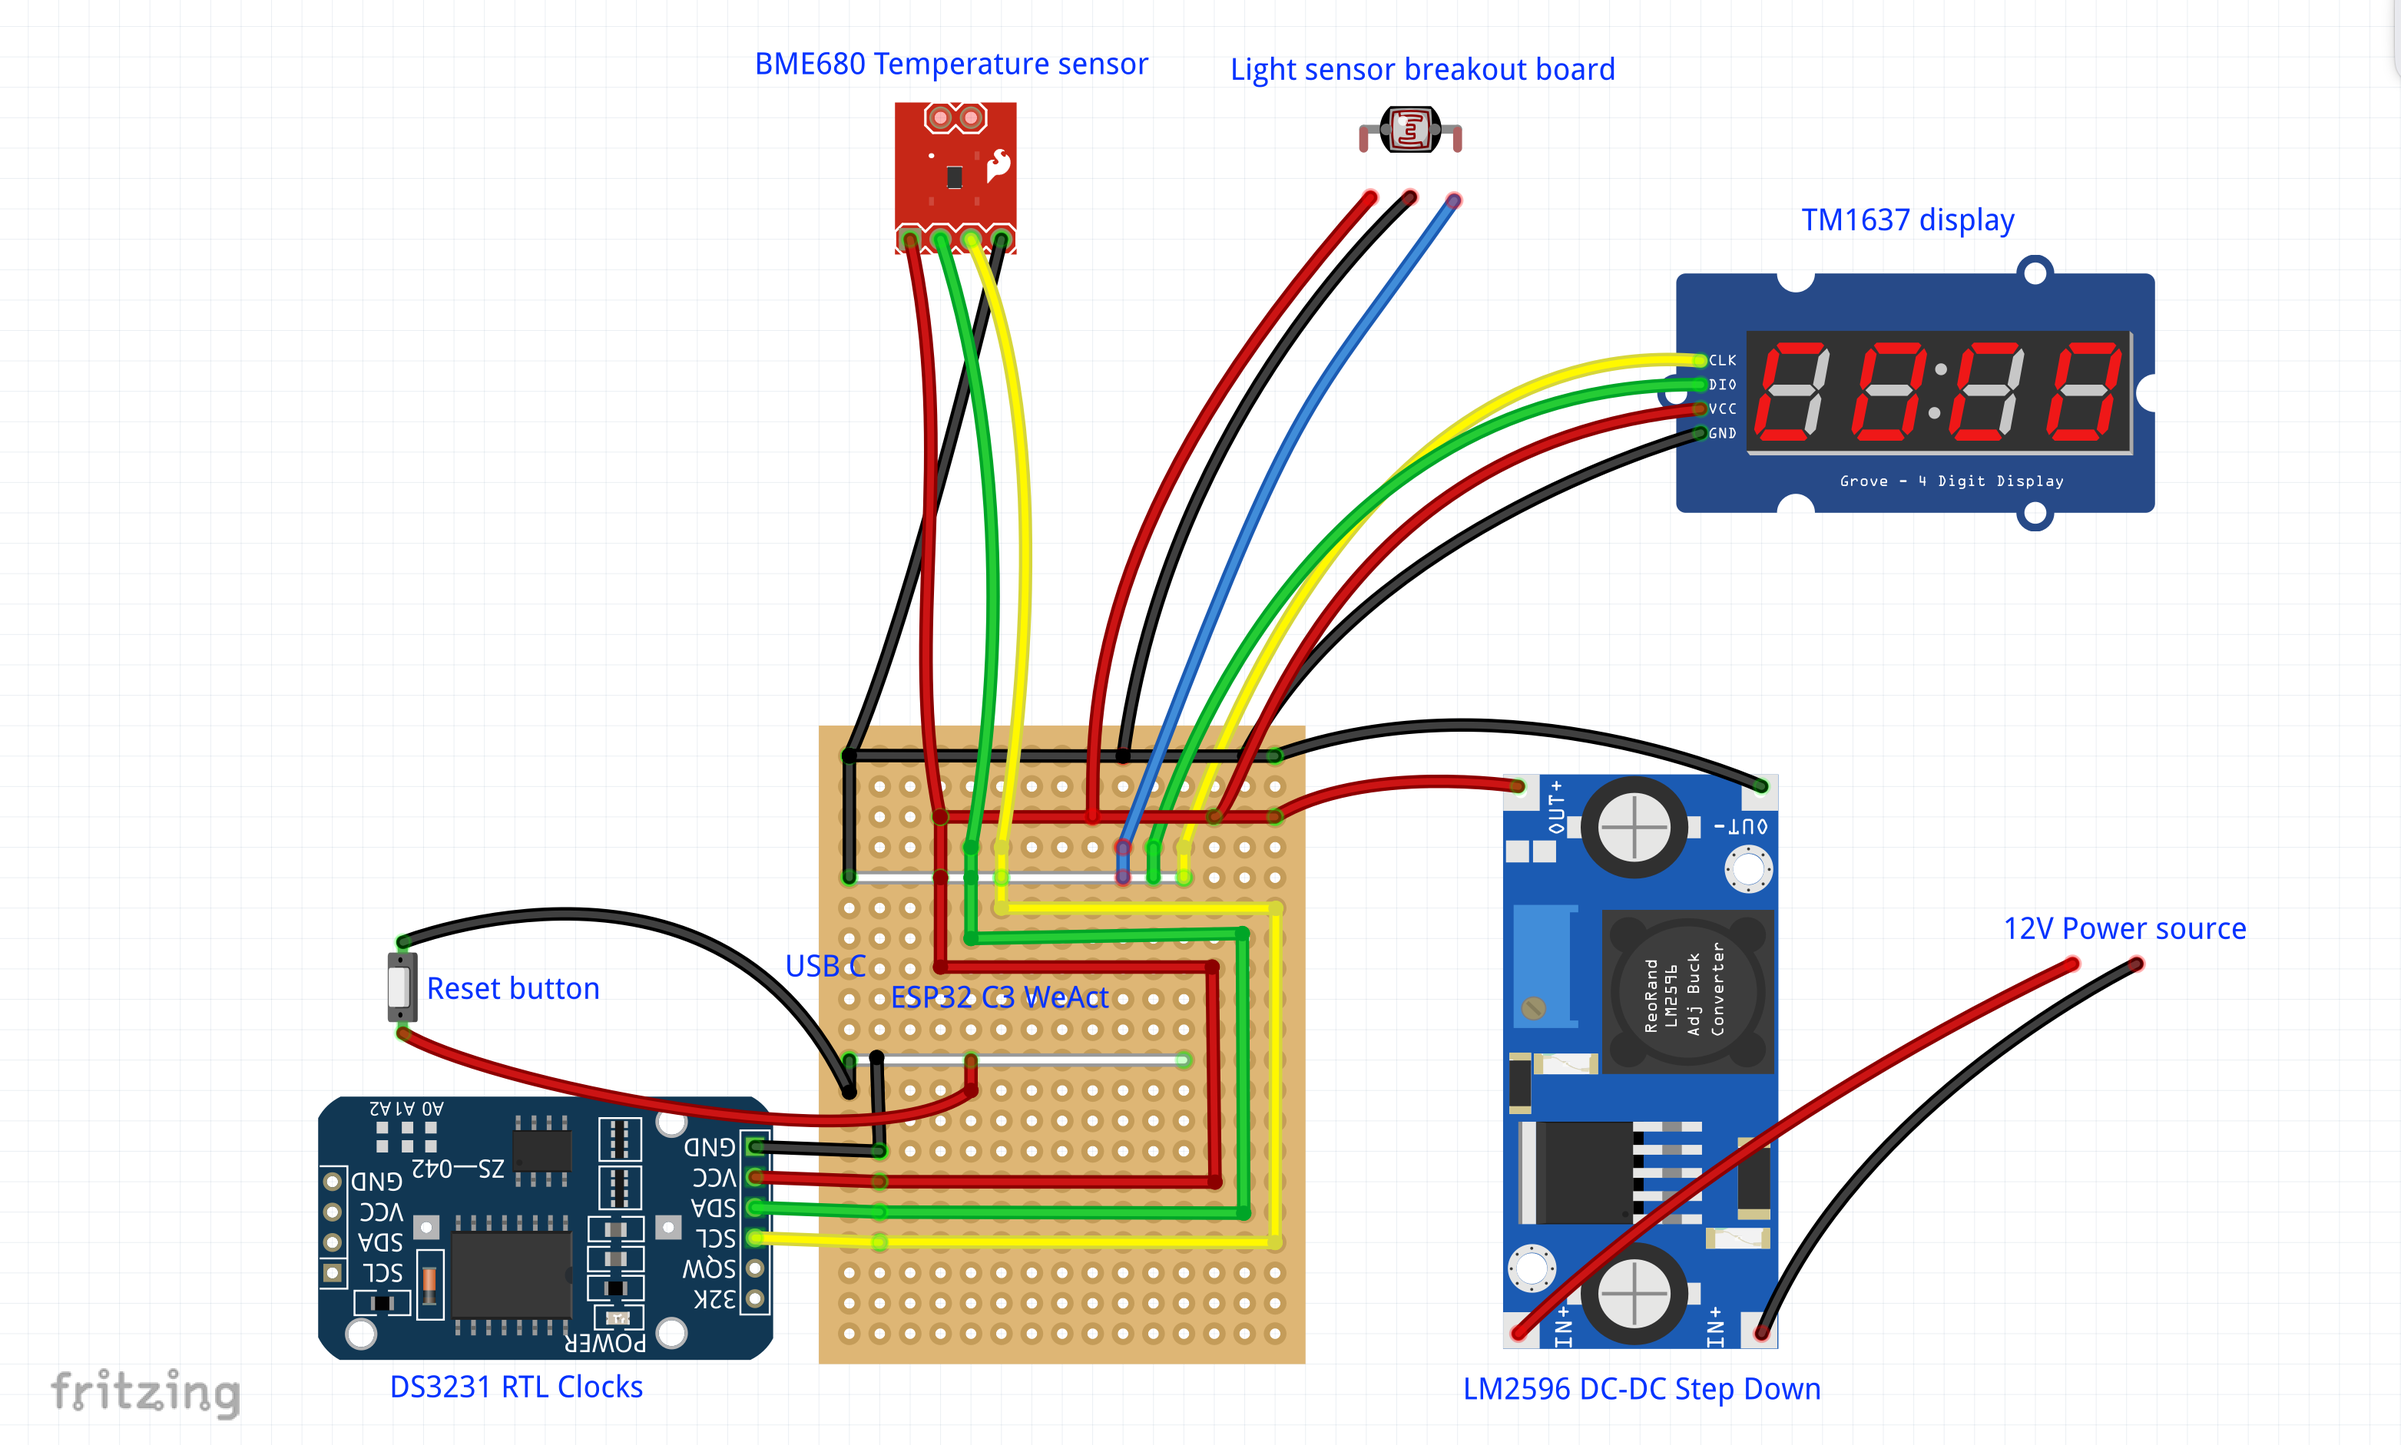
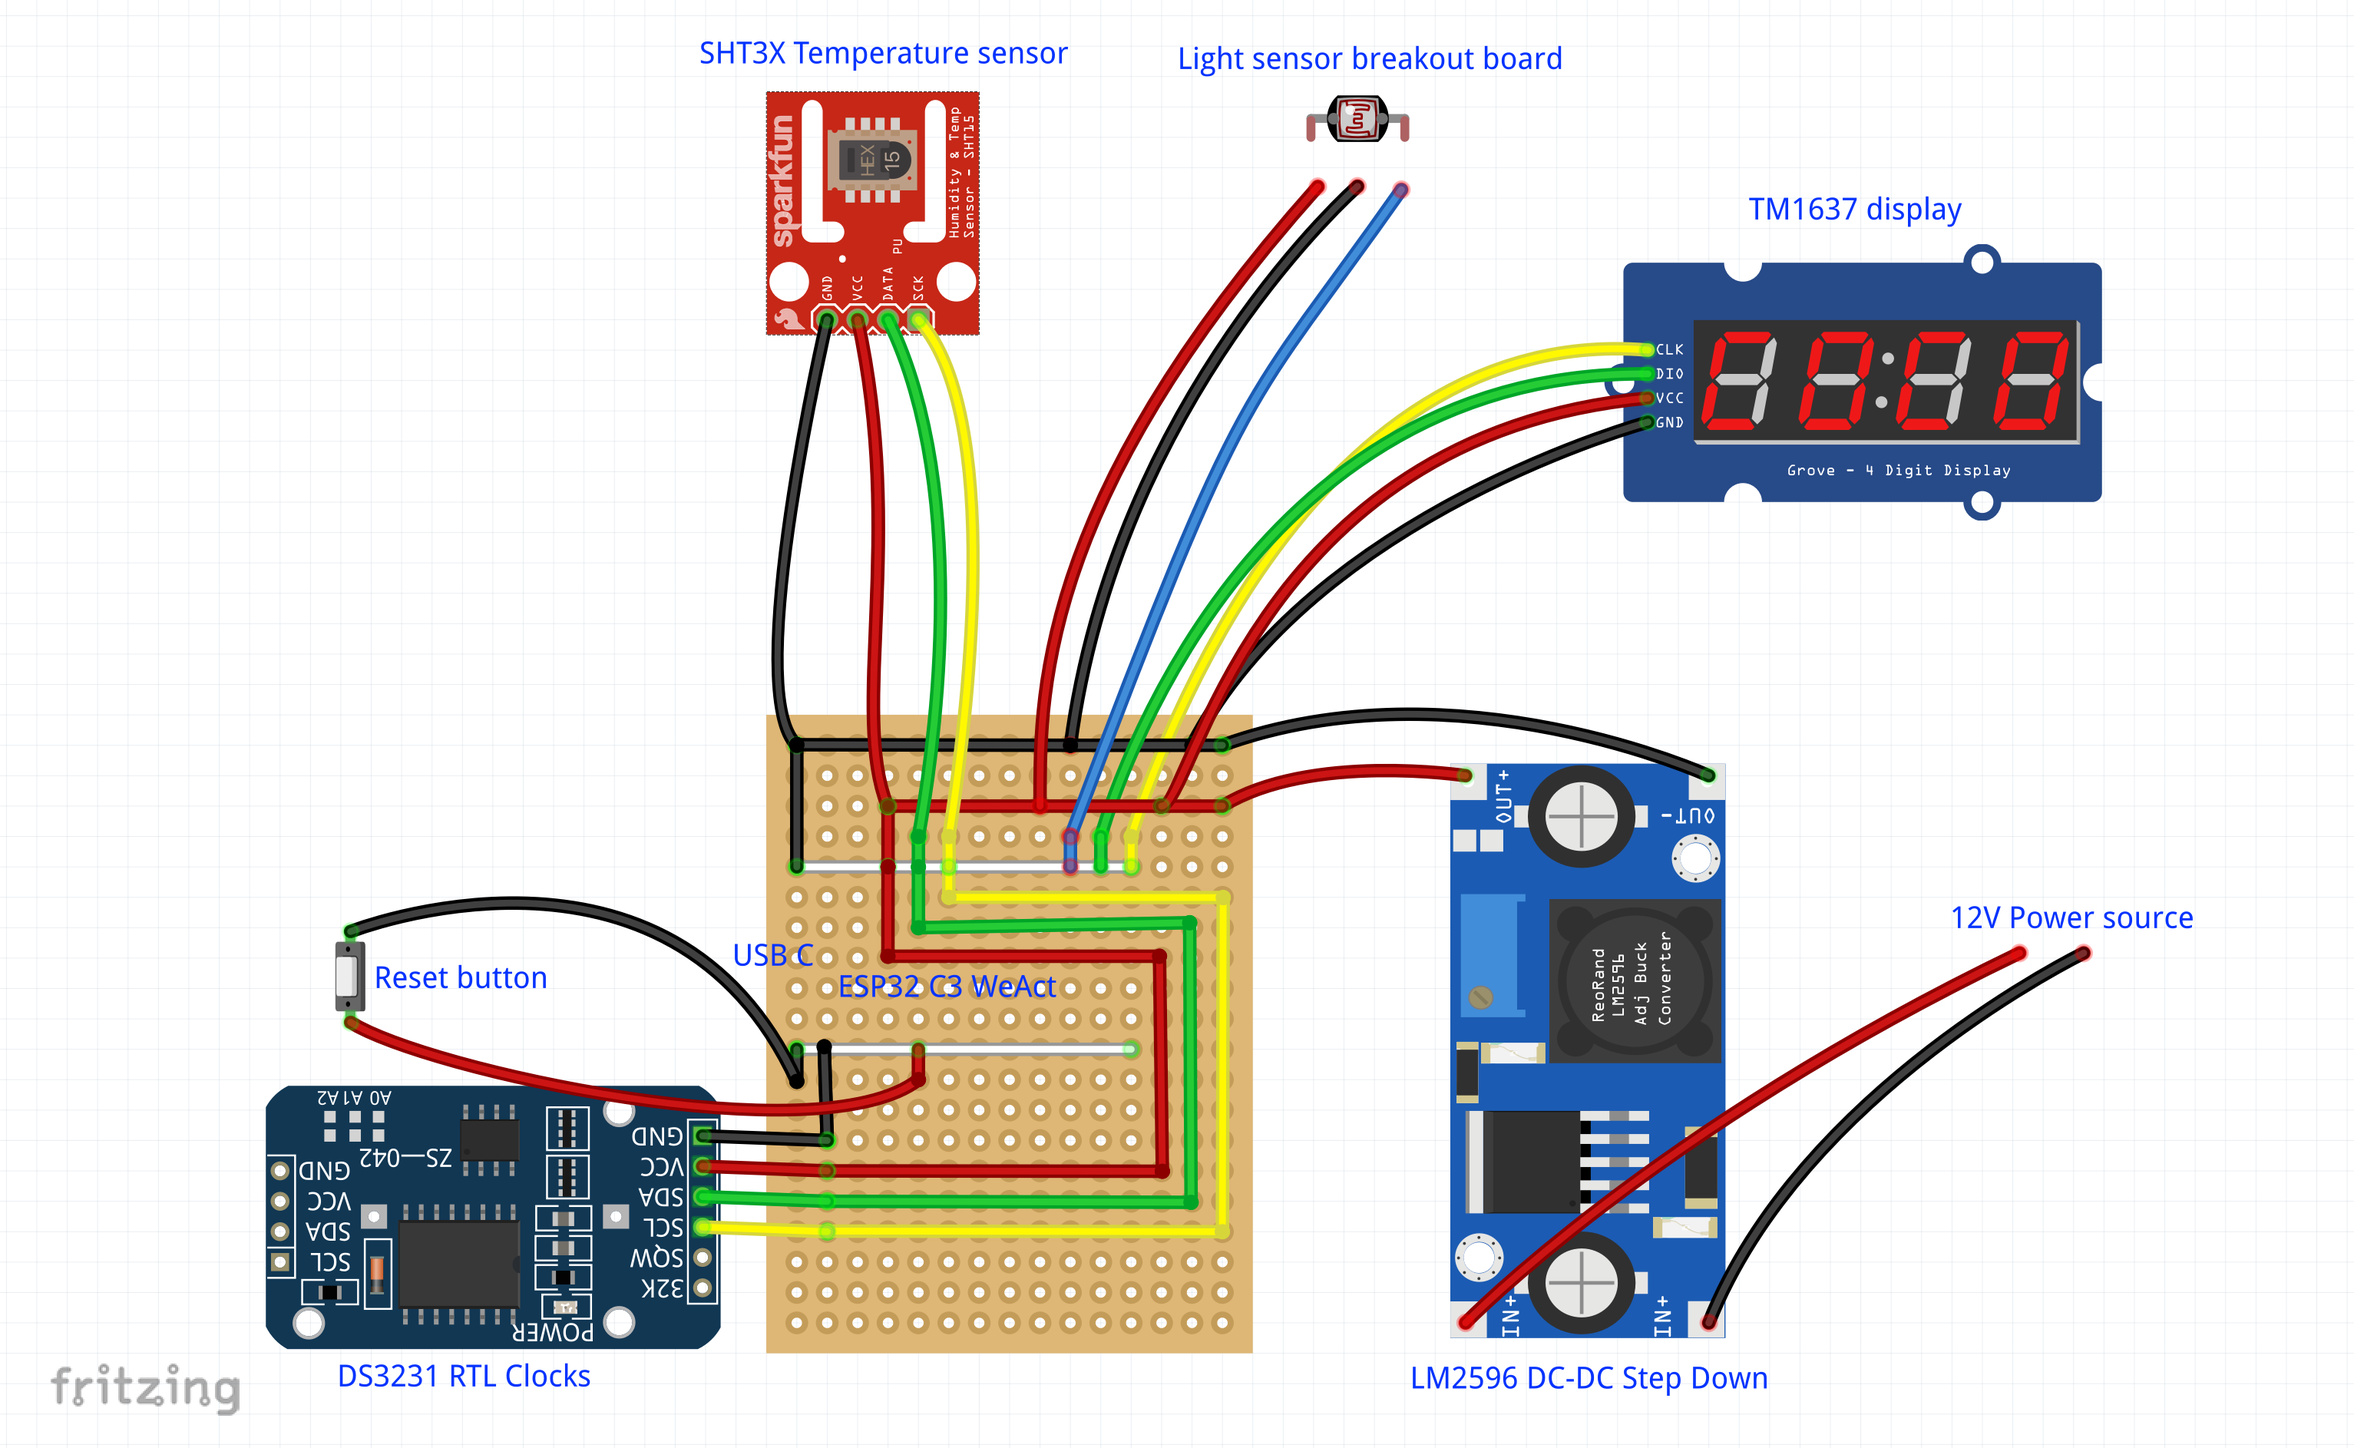
Auto restart, light sensor ADC with drifting, memory leaks fix, BME680 replaced with SHT3X

Changed region(s): [[0.093, 0.0308, 0.9295, 0.9862], [0.031, 0.9245, 0.1239, 0.9862]]

diff --git a/main/temperature_from_api/temperature_from_api.c b/main/temperature_from_api/temperature_from_api.c
@@ -69,8 +69,8 @@ static float get_temperature_from_json(char *json_string)
 
 static esp_err_t _http_event_handler(esp_http_client_event_t *evt)
 {
-  static char *output_buffer; // Buffer to store response of http request from event handler
-  static int output_len;      // Stores number of bytes read
+  static char *output_buffer = NULL; // Buffer to store response of http request from event handler
+  static int output_length = 0;      // Stores number of bytes read
 
   switch (evt->event_id)
   {
@@ -92,57 +92,45 @@ static esp_err_t _http_event_handler(esp_http_client_event_t *evt)
 
   case HTTP_EVENT_ON_DATA:
     ESP_LOGD(TAG, "HTTP_EVENT_ON_DATA, len=%d", evt->data_len);
-    // Clean the buffer in case of a new request
-    if (output_len == 0 && evt->user_data)
+
+    if (esp_http_client_is_chunked_response(evt->client))
     {
-      memset(evt->user_data, 0, MAX_HTTP_OUTPUT_BUFFER);
+      ESP_LOGI(TAG, "The data is chunked");
+      // Reallocate buffer for chunked response
+      char *temp_buffer = realloc(output_buffer, output_length + evt->data_len + 1);
+      if (!temp_buffer)
+      {
+        ESP_LOGE(TAG, "Failed to allocate memory for output buffer");
+        if (output_buffer)
+        {
+          free(output_buffer);
+          output_buffer = NULL;
+          output_length = 0;
+        }
+        return ESP_FAIL;
+      }
+      output_buffer = temp_buffer;
+    }
+    else if (output_buffer == NULL)
+    {
+      ESP_LOGI(TAG, "The data is not chunked");
+      // Allocate buffer for non-chunked response
+      int content_length = esp_http_client_get_content_length(evt->client);
+      output_buffer = (char *)calloc(content_length + 1, sizeof(char));
+      if (!output_buffer)
+      {
+        ESP_LOGE(TAG, "Failed to allocate memory for output buffer");
+        return ESP_FAIL;
+      }
     }
 
-    int copy_len = 0;
-    if (evt->user_data)
+    // Copy data to buffer
+    if (evt->data_len)
     {
-      copy_len = MIN(evt->data_len, (MAX_HTTP_OUTPUT_BUFFER - output_len));
-      if (copy_len)
-      {
-        memcpy(evt->user_data + output_len, evt->data, copy_len);
-      }
+      int copy_len = MIN(evt->data_len, (MAX_HTTP_OUTPUT_BUFFER - output_length));
+      memcpy(output_buffer + output_length, evt->data, copy_len);
+      output_length += copy_len;
     }
-    else
-    {
-      if (esp_http_client_is_chunked_response(evt->client))
-      {
-        ESP_LOGI(TAG, "The data is chunked");
-        // If chunked, reallocate buffer to accumulate more data
-        output_buffer = realloc(output_buffer, output_len + evt->data_len + 1);
-        if (!output_buffer)
-        {
-          ESP_LOGE(TAG, "Failed to allocate memory for output buffer");
-          return ESP_FAIL;
-        }
-        copy_len = evt->data_len;
-      }
-      else
-      {
-        ESP_LOGI(TAG, "The data is not chunked");
-        int content_len = esp_http_client_get_content_length(evt->client);
-        if (output_buffer == NULL)
-        {
-          output_buffer = (char *)calloc(content_len + 1, sizeof(char));
-          output_len = 0;
-          if (output_buffer == NULL)
-          {
-            ESP_LOGE(TAG, "Failed to allocate memory for output buffer");
-            return ESP_FAIL;
-          }
-        }
-        copy_len = MIN(evt->data_len, (content_len - output_len));
-      }
-      if (copy_len)
-      {
-        memcpy(output_buffer + output_len, evt->data, copy_len);
-      }
-    }
-    output_len += copy_len;
     break;
 
   case HTTP_EVENT_ON_FINISH:
@@ -163,12 +151,12 @@ static esp_err_t _http_event_handler(esp_http_client_event_t *evt)
 
       free(output_buffer);
       output_buffer = NULL;
+      output_length = 0;
     }
     else
     {
       ESP_LOGE(TAG, "Output buffer is 0!");
     }
-    output_len = 0;
     break;
 
   case HTTP_EVENT_DISCONNECTED:
@@ -184,8 +172,8 @@ static esp_err_t _http_event_handler(esp_http_client_event_t *evt)
     {
       free(output_buffer);
       output_buffer = NULL;
+      output_length = 0;
     }
-    output_len = 0;
     break;
 
   case HTTP_EVENT_REDIRECT:

diff --git a/main/temperature_from_sensor/temperature_from_sensor.c b/main/temperature_from_sensor/temperature_from_sensor.c
@@ -5,63 +5,50 @@
 #include <string.h>
 
 #include "sdkconfig.h"
-#include "bme680.h"
+#include "sht3x.h"
 #include "global_event_group.h"
 
 #include "temperature_from_sensor.h"
 
 #define PORT 0
-#define ADDR BME680_I2C_ADDR_1 // Try the BME680_I2C_ADDR_0 if this doesn't work
+#define ADDR CONFIG_SHT3X_ADDR
 
-static const char *TAG = "BME680 Sensor";
+static const char *TAG = "SHT3X Sensor";
 
 static const gpio_num_t SDA_PIN = CONFIG_SDA_PIN;
 static const gpio_num_t SCL_PIN = CONFIG_SCL_PIN;
 
 static const uint8_t REFRESH_INTERVAL_MINS = 1;
-// BME680 is very unprecise because of the self-heating issue
-// so we need to add an offset to the temperature
-// This offset is determined by measuring the temperature with a
-// precise thermometer and the BME680 at the same time
-static const float TEMPERATURE_OFFSET = -3;
 
 void temperature_from_sensor_task(void *pvParameter)
 {
-  bme680_t sensor;
-  memset(&sensor, 0, sizeof(bme680_t));
+  float temperature;
+  float humidity;
+
+  sht3x_t sensor;
+  memset(&sensor, 0, sizeof(sht3x_t));
 
   ESP_LOGI(TAG, "Init start");
-  bme680_init_desc(&sensor, ADDR, PORT, SDA_PIN, SCL_PIN);
-  bme680_init_sensor(&sensor);
-  bme680_use_heater_profile(&sensor, BME680_HEATER_NOT_USED);
-  bme680_set_ambient_temperature(&sensor, 22);
-
-  uint32_t measurement_duration;
-  bme680_get_measurement_duration(&sensor, &measurement_duration);
+  sht3x_init_desc(&sensor, ADDR, PORT, SDA_PIN, SCL_PIN);
+  sht3x_init(&sensor);
+  uint8_t measurement_duration = sht3x_get_measurement_duration(SHT3X_HIGH);
   ESP_LOGI(TAG, "Init end");
-
-  bme680_values_float_t values;
 
   while (true)
   {
-    xEventGroupClearBits(global_event_group, IS_PRECISE_INSIDE_TEMPERATURE_READING_DONE_BIT);
+    xEventGroupClearBits(global_event_group, IS_INSIDE_TEMPERATURE_READING_DONE_BIT);
 
-    if (bme680_force_measurement(&sensor) == ESP_OK)
+    sht3x_start_measurement(&sensor, SHT3X_SINGLE_SHOT, SHT3X_HIGH);
+
+    vTaskDelay(measurement_duration);
+
+    if (sht3x_get_results(&sensor, &temperature, &humidity) == ESP_OK)
     {
-      // passive waiting until measurement results are available
-      vTaskDelay(measurement_duration);
-
-      if (bme680_get_results_float(&sensor, &values) == ESP_OK)
-      {
-        ESP_LOGI(TAG, "Raw: %.2f °C, %.2f %%",
-                 values.temperature, values.humidity);
-        ESP_LOGI(TAG, "Compensated: %.2f °C", values.temperature + TEMPERATURE_OFFSET);
-        global_inside_temperature = values.temperature + TEMPERATURE_OFFSET;
-        xEventGroupSetBits(global_event_group, IS_PRECISE_INSIDE_TEMPERATURE_READING_DONE_BIT);
-        xEventGroupSetBits(global_event_group, IS_INSIDE_TEMPERATURE_READING_DONE_BIT);
-        vTaskDelay(1000 * 60 * REFRESH_INTERVAL_MINS / portTICK_PERIOD_MS);
-        continue;
-      }
+      ESP_LOGI(TAG, "Temperature: %.2f °C, %.2f %%\n", temperature, humidity);
+      global_inside_temperature = temperature;
+      xEventGroupSetBits(global_event_group, IS_INSIDE_TEMPERATURE_READING_DONE_BIT);
+      vTaskDelay(1000 * 60 * REFRESH_INTERVAL_MINS / portTICK_PERIOD_MS);
+      continue;
     }
 
     ESP_LOGE(TAG, "Can't measure the temperature");

diff --git a/main/main.c b/main/main.c
@@ -21,9 +21,12 @@
 #include "temperature_from_sensor/temperature_from_sensor.h"
 #include "temperature_from_api/temperature_from_api.h"
 #include "ota_update/ota_update.h"
+#include "auto_restart/auto_restart.h"
 
 EventGroupHandle_t global_event_group;
 float global_inside_temperature;
+
+bool global_is_light_on = false;
 
 static const char *TIMEZONE = CONFIG_TIMEZONE;
 static const uint8_t DELAY_UNTIL_SYSTEM_STATE_FIRST_PRINT_SECS = 10;
@@ -46,13 +49,15 @@ void app_main(void)
   tzset();
 
   xTaskCreatePinnedToCore(&led_task, "LED", configMINIMAL_STACK_SIZE * 2, NULL, 1, NULL, 1);
-  xTaskCreatePinnedToCore(&light_sensor_task, "Light Sensor", configMINIMAL_STACK_SIZE * 2, NULL, 1, NULL, 1);
+  // xTaskCreatePinnedToCore(&light_sensor_task, "Light Sensor", configMINIMAL_STACK_SIZE * 2, NULL, 1, NULL, 1);
+  xTaskCreatePinnedToCore(&light_sensor_adc_task, "Light Sensor ADC", configMINIMAL_STACK_SIZE * 2, NULL, 1, NULL, 1);
   xTaskCreatePinnedToCore(&external_timer_task, "External Timer", configMINIMAL_STACK_SIZE * 2, NULL, 1, NULL, 1);
   xTaskCreatePinnedToCore(&ntp_task, "NTP", configMINIMAL_STACK_SIZE * 2, NULL, 1, NULL, 1);
   xTaskCreatePinnedToCore(&lcd_tm1637_task, "LCD TM1637", configMINIMAL_STACK_SIZE * 2, NULL, 1, NULL, 1);
   xTaskCreatePinnedToCore(&temperature_from_sensor_task, "Temp from Sensor", configMINIMAL_STACK_SIZE * 2, NULL, 1, NULL, 1);
   xTaskCreatePinnedToCore(&temperature_from_api_task, "Temp from API", configMINIMAL_STACK_SIZE * 4, NULL, 1, NULL, 1);
   xTaskCreatePinnedToCore(&ota_update_task, "OTA Update", configMINIMAL_STACK_SIZE * 4, NULL, 1, NULL, 1);
+  xTaskCreatePinnedToCore(&auto_restart_task, "Auto Restart Task", configMINIMAL_STACK_SIZE * 2, NULL, 1, NULL, 1);
 
   vTaskDelay(1000 * DELAY_UNTIL_SYSTEM_STATE_FIRST_PRINT_SECS / portTICK_PERIOD_MS);
   xTaskCreatePinnedToCore(&system_state_task, "System State", configMINIMAL_STACK_SIZE * 2, NULL, 1, NULL, 1);

diff --git a/main/light/light_adc.c b/main/light/light_adc.c
@@ -1,0 +1,50 @@
+#include <freertos/FreeRTOS.h>
+#include <freertos/task.h>
+#include <driver/gpio.h>
+#include <driver/adc.h>
+#include <esp_log.h>
+
+#include "sdkconfig.h"
+#include "../global_event_group.h"
+
+#include "light.h"
+
+static const char *TAG = "MH Light Sensor";
+
+static const gpio_num_t LIGHT_SENSOR_PIN = CONFIG_LIGHT_SENSOR_PIN;
+static const u_int16_t ADC_SWITCH_VALUE = 3550;
+static const u_int16_t ADC_DRIFTING_TOLERANCE = 50;
+
+void light_sensor_adc_task(void *pvParameter)
+{
+  ESP_LOGI(TAG, "Init start");
+  adc1_config_width(ADC_WIDTH_MAX);
+  adc1_config_channel_atten(LIGHT_SENSOR_PIN, ADC_ATTEN_DB_11);
+
+  bool is_event_bit_set = false;
+  bool prev_global_is_light_on = false;
+
+  while (1)
+  {
+    u_int16_t adc_value = adc1_get_raw(LIGHT_SENSOR_PIN);
+    if (adc_value < ADC_SWITCH_VALUE - ADC_DRIFTING_TOLERANCE || adc_value > ADC_SWITCH_VALUE + ADC_DRIFTING_TOLERANCE)
+    {
+      global_is_light_on = adc_value < ADC_SWITCH_VALUE;
+    }
+
+    if (!is_event_bit_set)
+    {
+      ESP_LOGI(TAG, "Light sensor initial reading done");
+      xEventGroupSetBits(global_event_group, IS_LIGHT_SENSOR_READING_DONE_BIT);
+      is_event_bit_set = true;
+    }
+
+    if (prev_global_is_light_on != global_is_light_on)
+    {
+      ESP_LOGI("Light sensor", "Light is %s", global_is_light_on ? "on" : "off");
+      prev_global_is_light_on = global_is_light_on;
+    }
+
+    vTaskDelay(100 / portTICK_PERIOD_MS);
+  }
+}

diff --git a/main/global_event_group.h b/main/global_event_group.h
@@ -7,11 +7,10 @@ extern EventGroupHandle_t global_event_group;
 
 #define IS_LIGHT_SENSOR_READING_DONE_BIT BIT0
 #define IS_INSIDE_TEMPERATURE_READING_DONE_BIT BIT1
-#define IS_PRECISE_INSIDE_TEMPERATURE_READING_DONE_BIT BIT2
-#define IS_OUTSIDE_TEMPERATURE_READING_DONE_BIT BIT3
-#define IS_WIFI_CONNECTED_BIT BIT4
-#define IS_TIME_SET_BIT BIT5
-#define IS_TIME_FROM_NPT_UP_TO_DATE_BIT BIT6
+#define IS_OUTSIDE_TEMPERATURE_READING_DONE_BIT BIT2
+#define IS_WIFI_CONNECTED_BIT BIT3
+#define IS_TIME_SET_BIT BIT4
+#define IS_TIME_FROM_NPT_UP_TO_DATE_BIT BIT5
 
 extern bool global_is_light_on;
 extern float global_inside_temperature;

diff --git a/main/auto_restart/auto_restart.c b/main/auto_restart/auto_restart.c
@@ -1,0 +1,21 @@
+#include <freertos/FreeRTOS.h>
+#include <freertos/task.h>
+#include <esp_system.h>
+#include <esp_log.h>
+
+// Assuming your log tag is defined somewhere
+#define TAG "Auto Restart"
+
+const uint8_t TIMEOUT_HOURS = 4;
+
+void auto_restart_task(void *pvParameter)
+{
+  while (true)
+  {
+    ESP_LOGI(TAG, "Waiting for %u hours before restart", TIMEOUT_HOURS);
+    vTaskDelay(1000 * 60 * 60 * TIMEOUT_HOURS / portTICK_PERIOD_MS);
+
+    ESP_LOGI(TAG, "Restarting now!");
+    esp_restart();
+  }
+}

diff --git a/main/light/light.c b/main/light/light.c
@@ -8,8 +8,6 @@
 
 #include "light.h"
 
-bool global_is_light_on = false;
-
 static const char *TAG = "HW-072 Light Sensor";
 
 static const gpio_num_t LIGHT_SENSOR_PIN = CONFIG_LIGHT_SENSOR_PIN;

diff --git a/main/time/ntp.c b/main/time/ntp.c
@@ -58,5 +58,6 @@ void ntp_task(void *pvParameter)
     }
 
     vTaskDelay(1000 * 60 * 60 * REFRESH_INTERVAL_HOURS / portTICK_PERIOD_MS);
+    retry_count = 0;
   }
 }

diff --git a/main/light/light.h b/main/light/light.h
@@ -1,1 +1,2 @@
 void light_sensor_task(void *pvParameter);
+void light_sensor_adc_task(void *pvParameter);

diff --git a/main/auto_restart/auto_restart.h b/main/auto_restart/auto_restart.h
@@ -1,0 +1,1 @@
+void auto_restart_task(void *pvParameter);

diff --git a/README.md b/README.md
@@ -18,7 +18,7 @@ The project started from the dead section of the built-in clocks in my bath mirr
 
 - **TM1637** 7-segment display.
 - _Optional:_ **HW-072** Light Sensor. Switching between full and minimal brightness based on the photoresistor.
-- _Optional:_ **BME680** environment sensor. Measuring temperature (and optionally humidity).
+- _Optional:_ **SHT3X** environment sensor. Measuring temperature (and optionally humidity).
 - _Optional:_ **DS3231** external timer. Saving time to the separate precise clocks.
   Also provides fallback non-precise temperature (+-1.5 C).
 - _Optional:_ **Temperature from API** over Wi-Fi and HTTPS. [api.weatherapi.com](https://www.weatherapi.com)
